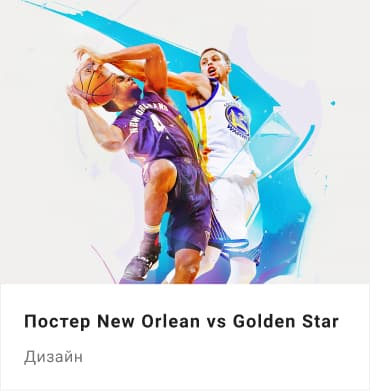
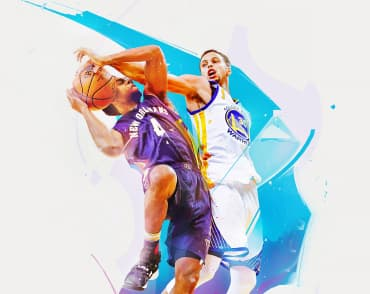
Добавлено border на карточки в портфолио

diff --git a/portfolio.html b/portfolio.html
@@ -86,6 +86,10 @@
               alt="два баскетболиста в прыжке с мячем"
               width="370"
             />
+            <div class="text">
+              <h2 class="title">Постер New Orlean vs Golden Star</h2>
+              <p class="description">Дизайн</p>
+            </div>
           </li>
           <li class="portfolio-item">
             <img
@@ -136,6 +140,10 @@
           </li>
           <li class="portfolio-item">
             <img src="./images/label.jpg" alt="лейбл на шнурке" width="370" />
+            <div class="text">
+              <h2 class="title">Проект LAB</h2>
+              <p class="description">Маркетинг</p>
+            </div>
           </li>
           <li class="portfolio-item">
             <img

diff --git a/css/styles.css b/css/styles.css
@@ -446,6 +446,11 @@ footer .logo {
   margin-bottom: 94px;
 }
 
+.portfolio img {
+  width: 370px;
+  height: 294px;
+}
+
 .portfolio li {
   background-color: var(--white-color);
 }
@@ -472,10 +477,7 @@ footer .logo {
   width: 370px;
   margin-right: 30px;
   margin-bottom: 30px;
-}
-
-.portfolio-item .text {
-  border: #eeeeee;
+  border: 1px solid #eeeeee;
 }
 
 .portfolio-item .description {
